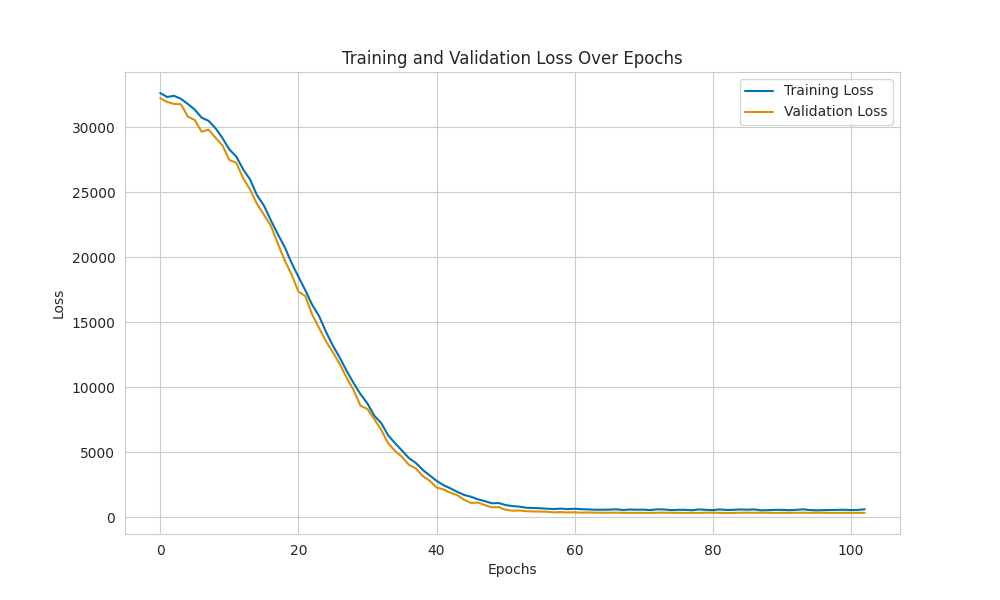
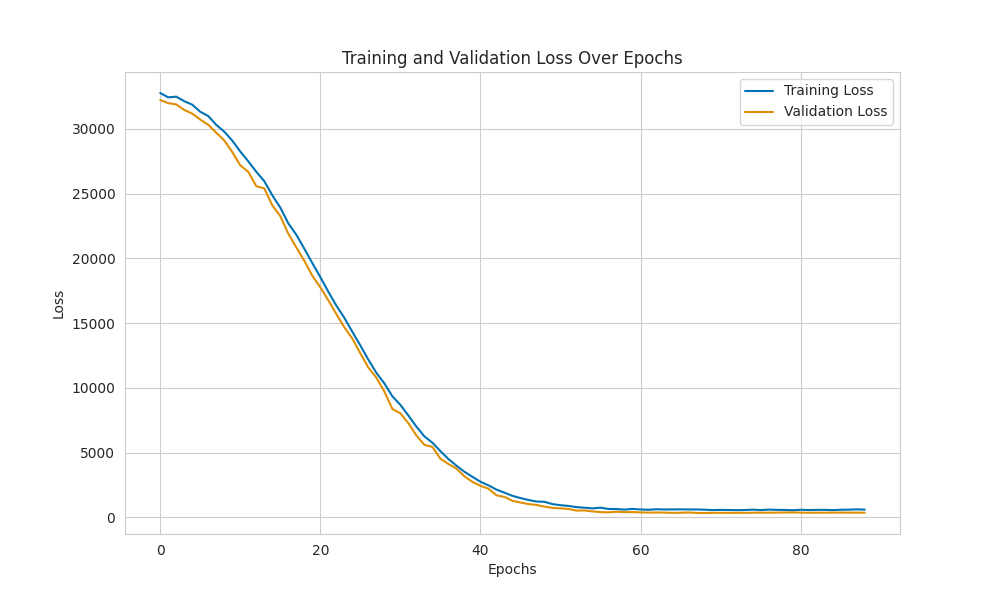
gpu optimize

diff --git a/main.py b/main.py
@@ -14,9 +14,6 @@ from sklearn.ensemble import RandomForestRegressor
 import time
 import os
 
-# Enable CUDA launch blocking for better error messages
-os.environ['CUDA_LAUNCH_BLOCKING'] = '1'
-
 # Set CUDA worker initialization flag to avoid errors
 try:
     torch.multiprocessing.set_start_method('spawn', force=True)
@@ -37,24 +34,12 @@ if torch.cuda.is_available():
     def print_gpu_utilization():
         print(f"GPU Memory Allocated: {torch.cuda.memory_allocated() / 1e9:.2f} GB")
         print(f"GPU Memory Reserved: {torch.cuda.memory_reserved() / 1e9:.2f} GB")
-        # Get current GPU utilization if running on Linux
-        try:
-            import subprocess
-            gpu_util = subprocess.check_output(["nvidia-smi", "--query-gpu=utilization.gpu", "--format=csv,noheader,nounits"])
-            print(f"GPU Utilization: {gpu_util.decode('utf-8').strip()}%")
-        except:
-            pass
     
     # Initial GPU stats
     print_gpu_utilization()
     
     # Ensure CUDA operations are synchronized
     torch.cuda.synchronize()
-
-# Enable cuDNN benchmarking for faster convolutions
-torch.backends.cudnn.benchmark = True
-# Use deterministic algorithms for reproducibility (can be slower)
-# torch.backends.cudnn.deterministic = True
 
 sns.set_style('whitegrid')
 sns.set_palette('colorblind')
@@ -102,67 +87,40 @@ X_test_top = X_test[top_features]
 X_train_top_scaled = scaler.fit_transform(X_train_top)
 X_test_top_scaled = scaler.transform(X_test_top)
 
-# Cache data to reduce CPU overhead
-X_train_top_scaled = np.ascontiguousarray(X_train_top_scaled)
-X_test_top_scaled = np.ascontiguousarray(X_test_top_scaled)
-y_train_values = np.ascontiguousarray(y_train.values)
-y_test_values = np.ascontiguousarray(y_test.values)
-
-# Convert data to PyTorch tensors - keep on CPU initially
+# Better approach: Keep tensors on CPU initially, then move to GPU in batches
 X_train_tensor = torch.tensor(X_train_top_scaled, dtype=torch.float32)
 X_test_tensor = torch.tensor(X_test_top_scaled, dtype=torch.float32)
-y_train_tensor = torch.tensor(y_train_values, dtype=torch.float32).unsqueeze(1)
-y_test_tensor = torch.tensor(y_test_values, dtype=torch.float32).unsqueeze(1)
+y_train_tensor = torch.tensor(y_train.values, dtype=torch.float32).unsqueeze(1)
+y_test_tensor = torch.tensor(y_test.values, dtype=torch.float32).unsqueeze(1)
 
-# Try larger batch sizes for better GPU utilization
-batch_size = 512  # Increased from 256 to better utilize GPU
-
-# Create datasets and data loaders
+# Create DataLoader for batching - with proper pin_memory settings
+batch_size = 64
 train_dataset = TensorDataset(X_train_tensor, y_train_tensor)
 test_dataset = TensorDataset(X_test_tensor, y_test_tensor)
+train_loader = DataLoader(train_dataset, batch_size=batch_size, shuffle=True, pin_memory=True, num_workers=0)
+test_loader = DataLoader(test_dataset, batch_size=batch_size, shuffle=False, pin_memory=True, num_workers=0)
 
-# Update your DataLoader definitions to disable multiprocessing
-train_loader = DataLoader(
-    train_dataset, 
-    batch_size=batch_size, 
-    shuffle=True, 
-    pin_memory=True, 
-    num_workers=0  # Change this to 0
-)
-
-test_loader = DataLoader(
-    test_dataset, 
-    batch_size=batch_size, 
-    shuffle=False, 
-    pin_memory=True, 
-    num_workers=0  # Change this to 0
-)
-
+# Verify data will move to GPU in training loop
 print(f"Input tensor device: {X_train_tensor.device}")
 print(f"Target tensor device: {y_train_tensor.device}")
 
-#* Define a larger Neural Network Model to better utilize GPU
+#* Define Neural Network Model
 class NeuralNetwork(nn.Module):
     def __init__(self, input_size):
         super(NeuralNetwork, self).__init__()
-        # Increase network size to better utilize GPU
-        self.fc1 = nn.Linear(input_size, 256)
-        self.bn1 = nn.BatchNorm1d(256)
-        self.dropout1 = nn.Dropout(0.3)
+        self.fc1 = nn.Linear(input_size, 128)
+        self.bn1 = nn.BatchNorm1d(128)
+        self.dropout1 = nn.Dropout(0.2)
         
-        self.fc2 = nn.Linear(256, 128)
-        self.bn2 = nn.BatchNorm1d(128)
-        self.dropout2 = nn.Dropout(0.3)
+        self.fc2 = nn.Linear(128, 64)
+        self.bn2 = nn.BatchNorm1d(64)
+        self.dropout2 = nn.Dropout(0.2)
         
-        self.fc3 = nn.Linear(128, 64)
-        self.bn3 = nn.BatchNorm1d(64)
-        self.dropout3 = nn.Dropout(0.3)
+        self.fc3 = nn.Linear(64, 32)
+        self.bn3 = nn.BatchNorm1d(32)
+        self.dropout3 = nn.Dropout(0.2)
         
-        self.fc4 = nn.Linear(64, 32)
-        self.bn4 = nn.BatchNorm1d(32)
-        self.dropout4 = nn.Dropout(0.2)
-        
-        self.fc5 = nn.Linear(32, 1)
+        self.fc4 = nn.Linear(32, 1)
 
     def forward(self, x):
         x = torch.relu(self.fc1(x))
@@ -177,33 +135,18 @@ class NeuralNetwork(nn.Module):
         x = self.bn3(x)
         x = self.dropout3(x)
         
-        x = torch.relu(self.fc4(x))
-        x = self.bn4(x)
-        x = self.dropout4(x)
-        
-        x = self.fc5(x)
+        x = self.fc4(x)
         return x
 
 # Initialize model, loss function, and optimizer
 input_size = X_train_top_scaled.shape[1]
 model = NeuralNetwork(input_size).to(device)
 criterion = nn.MSELoss()
-optimizer = optim.Adam(model.parameters(), lr=0.001, eps=1e-7)
-
-# Setup mixed precision training for better performance
-scaler = torch.cuda.amp.GradScaler() if torch.cuda.is_available() else None
+optimizer = optim.Adam(model.parameters(), lr=0.001)
 
 # Check that model is on GPU
 if torch.cuda.is_available():
     print(f"Model is on GPU: {next(model.parameters()).is_cuda}")
-    print_gpu_utilization()
-    
-    # Warm-up the GPU with a dummy forward pass
-    dummy_input = torch.randn(batch_size, input_size, device=device)
-    with torch.no_grad():
-        dummy_output = model(dummy_input)
-    torch.cuda.synchronize()
-    print("GPU warm-up complete")
     print_gpu_utilization()
 
 #* Training the Model
@@ -216,58 +159,36 @@ train_losses, val_losses = [], []
 start_time = time.time()
 
 for epoch in range(num_epochs):
-    # Training phase
     model.train()
     train_loss = 0
     for batch_X, batch_y in train_loader:
         # Move tensors to GPU for this batch
-        batch_X, batch_y = batch_X.to(device, non_blocking=True), batch_y.to(device, non_blocking=True)
+        batch_X, batch_y = batch_X.to(device), batch_y.to(device)
         
-        # Clear gradients
-        optimizer.zero_grad(set_to_none=True)  # More efficient than zero_grad()
-        
-        if scaler is not None:  # Use mixed precision if available
-            with torch.cuda.amp.autocast():
-                y_pred = model(batch_X)
-                loss = criterion(y_pred, batch_y)
-            
-            # Scale gradients and optimize
-            scaler.scale(loss).backward()
-            scaler.step(optimizer)
-            scaler.update()
-        else:
-            # Standard precision training
-            y_pred = model(batch_X)
-            loss = criterion(y_pred, batch_y)
-            loss.backward()
-            optimizer.step()
-            
+        optimizer.zero_grad()
+        y_pred = model(batch_X)
+        loss = criterion(y_pred, batch_y)
+        loss.backward()
+        optimizer.step()
         train_loss += loss.item()
     
     train_loss /= len(train_loader)
     train_losses.append(train_loss)
 
-    # Validation phase
+    # Validation
     model.eval()
     val_loss = 0
     with torch.no_grad():
         for batch_X, batch_y in test_loader:
-            batch_X, batch_y = batch_X.to(device, non_blocking=True), batch_y.to(device, non_blocking=True)
-            
-            if scaler is not None:  # Use mixed precision if available
-                with torch.cuda.amp.autocast():
-                    y_pred = model(batch_X)
-                    loss = criterion(y_pred, batch_y)
-            else:
-                y_pred = model(batch_X)
-                loss = criterion(y_pred, batch_y)
-                
+            batch_X, batch_y = batch_X.to(device), batch_y.to(device)
+            y_pred = model(batch_X)
+            loss = criterion(y_pred, batch_y)
             val_loss += loss.item()
     
     val_loss /= len(test_loader)
     val_losses.append(val_loss)
 
-    # Print progress and GPU stats periodically
+    # Print progress every 10 epochs or at the first epoch
     if epoch % 10 == 0 or epoch == 0:
         print(f"Epoch {epoch+1}/{num_epochs}, Train Loss: {train_loss:.4f}, Val Loss: {val_loss:.4f}")
         if torch.cuda.is_available():
@@ -297,14 +218,8 @@ y_pred_list = []
 y_actual_list = []
 with torch.no_grad():
     for batch_X, batch_y in test_loader:
-        batch_X, batch_y = batch_X.to(device, non_blocking=True), batch_y.to(device, non_blocking=True)
-        
-        if scaler is not None:  # Use mixed precision if available
-            with torch.cuda.amp.autocast():
-                y_pred = model(batch_X)
-        else:
-            y_pred = model(batch_X)
-            
+        batch_X, batch_y = batch_X.to(device), batch_y.to(device)
+        y_pred = model(batch_X)
         y_pred_list.append(y_pred.cpu().numpy())
         y_actual_list.append(batch_y.cpu().numpy())
 
